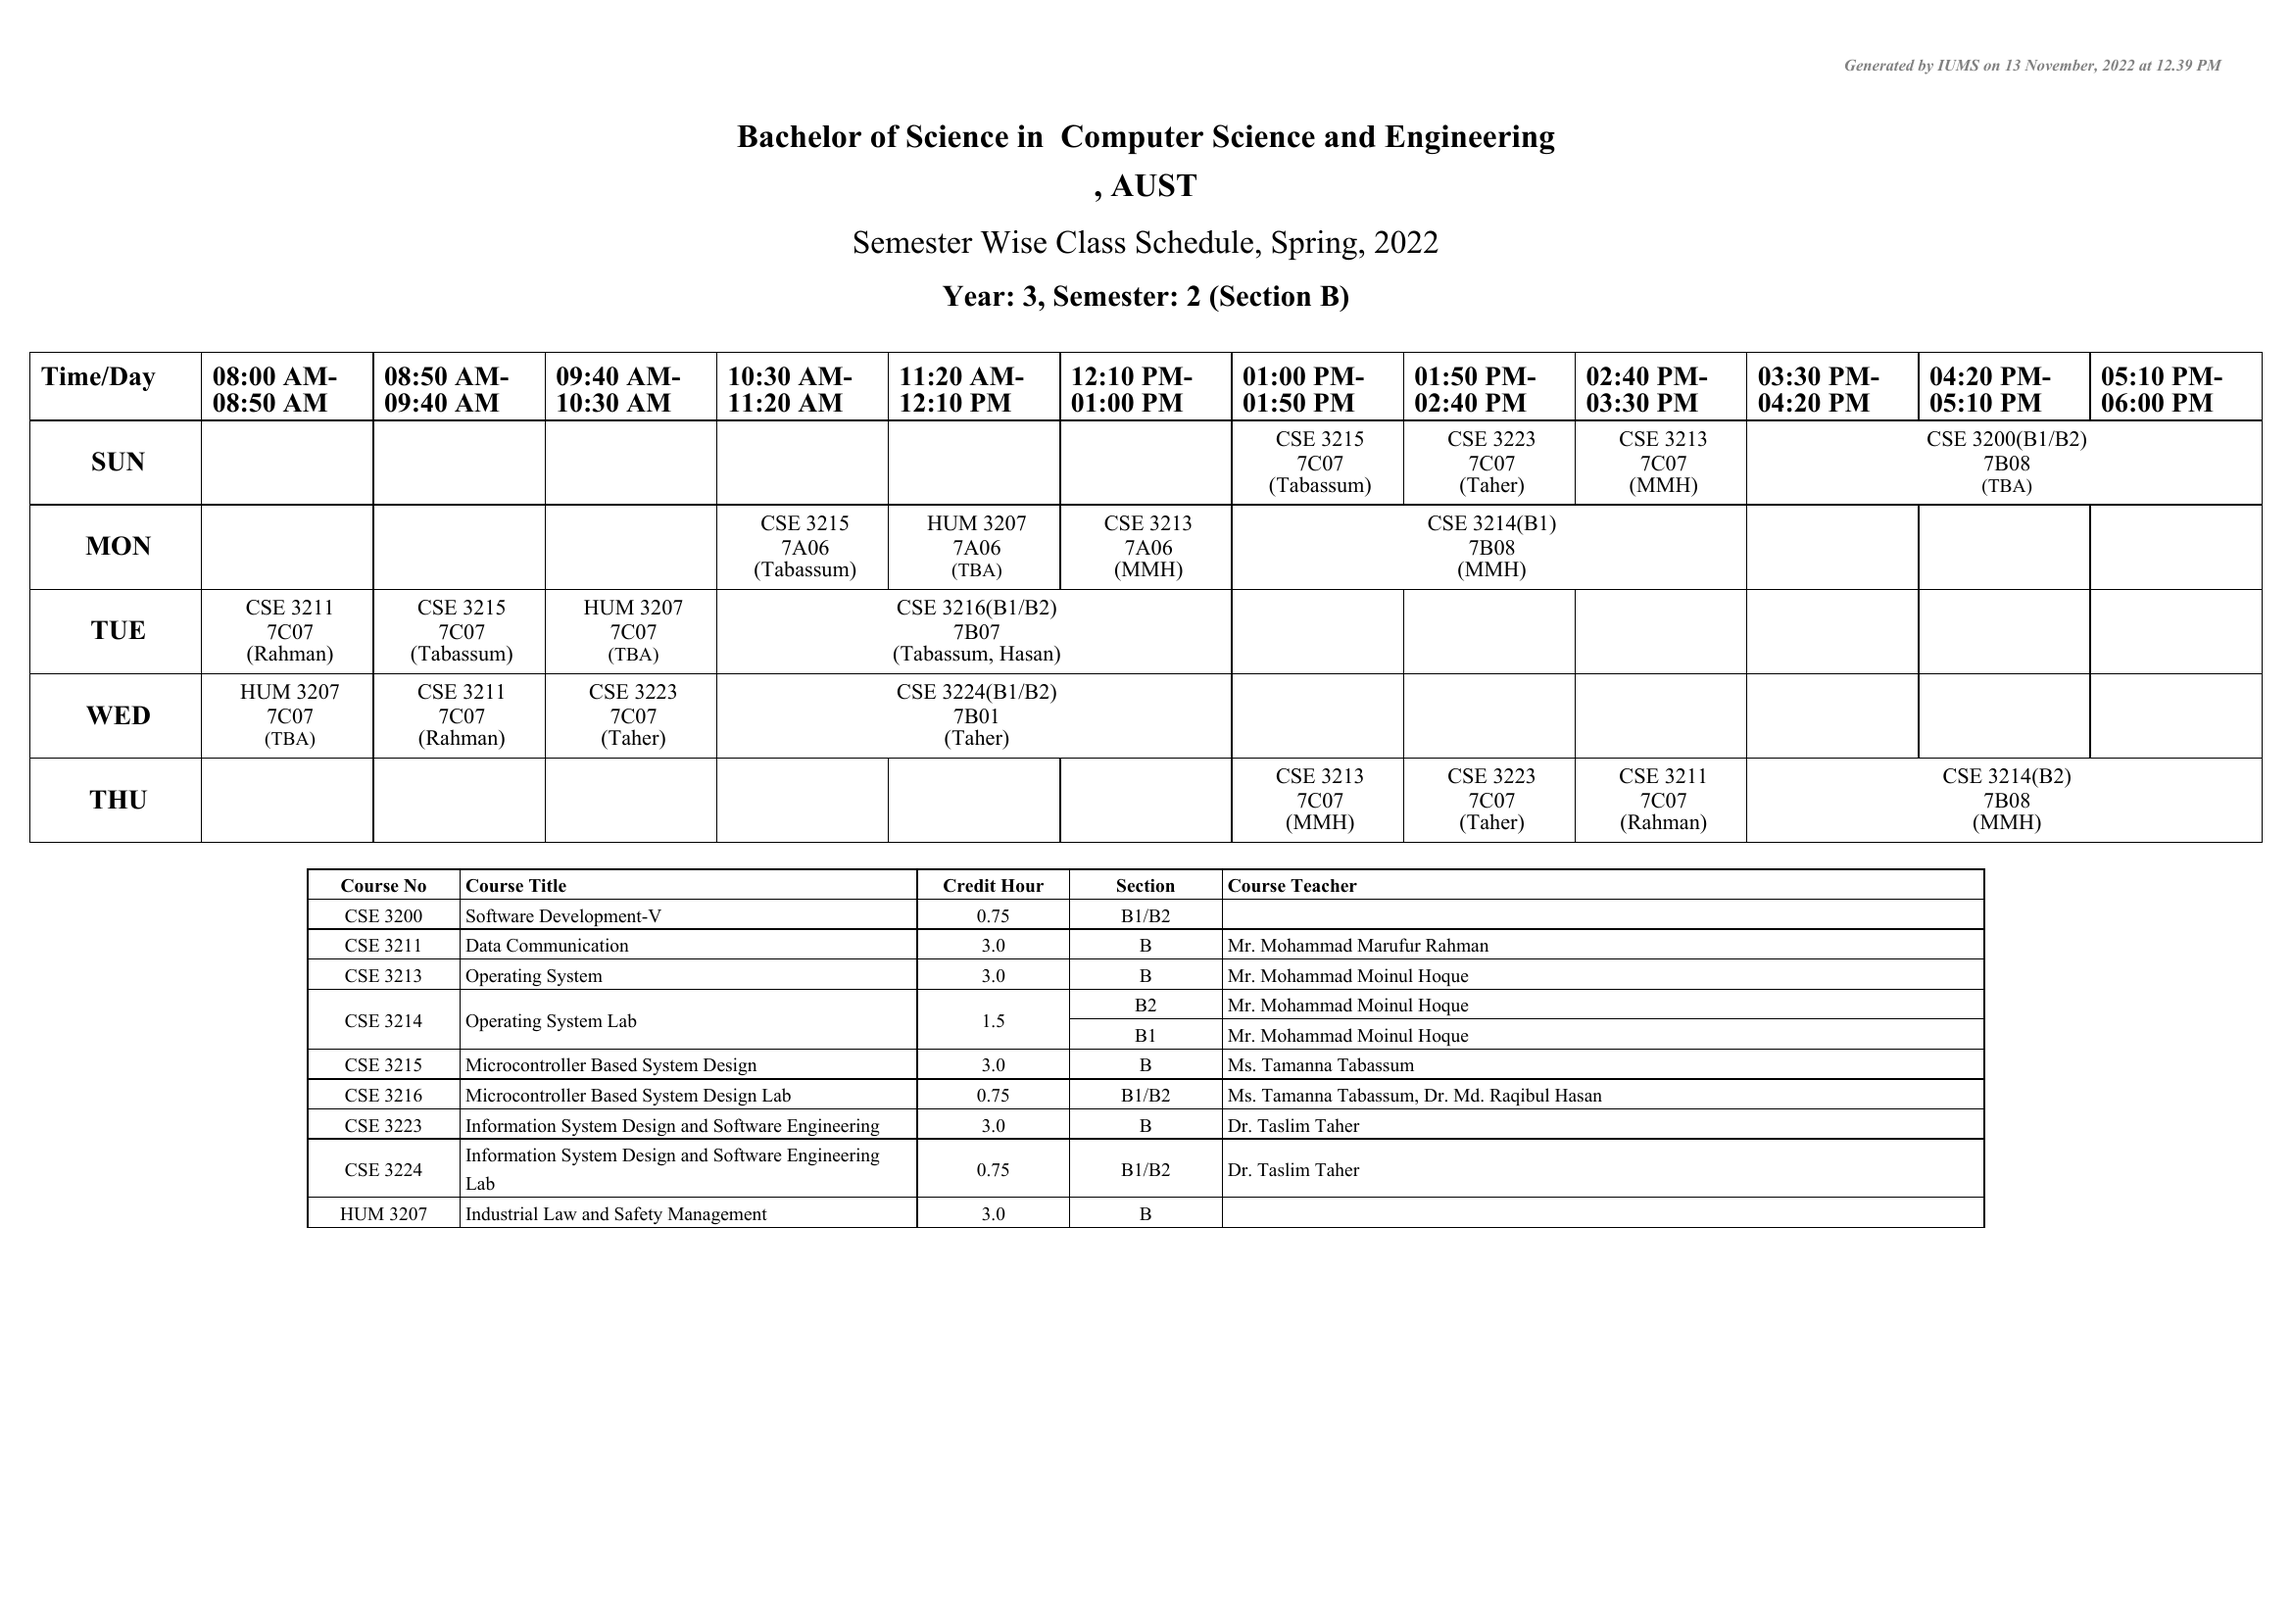
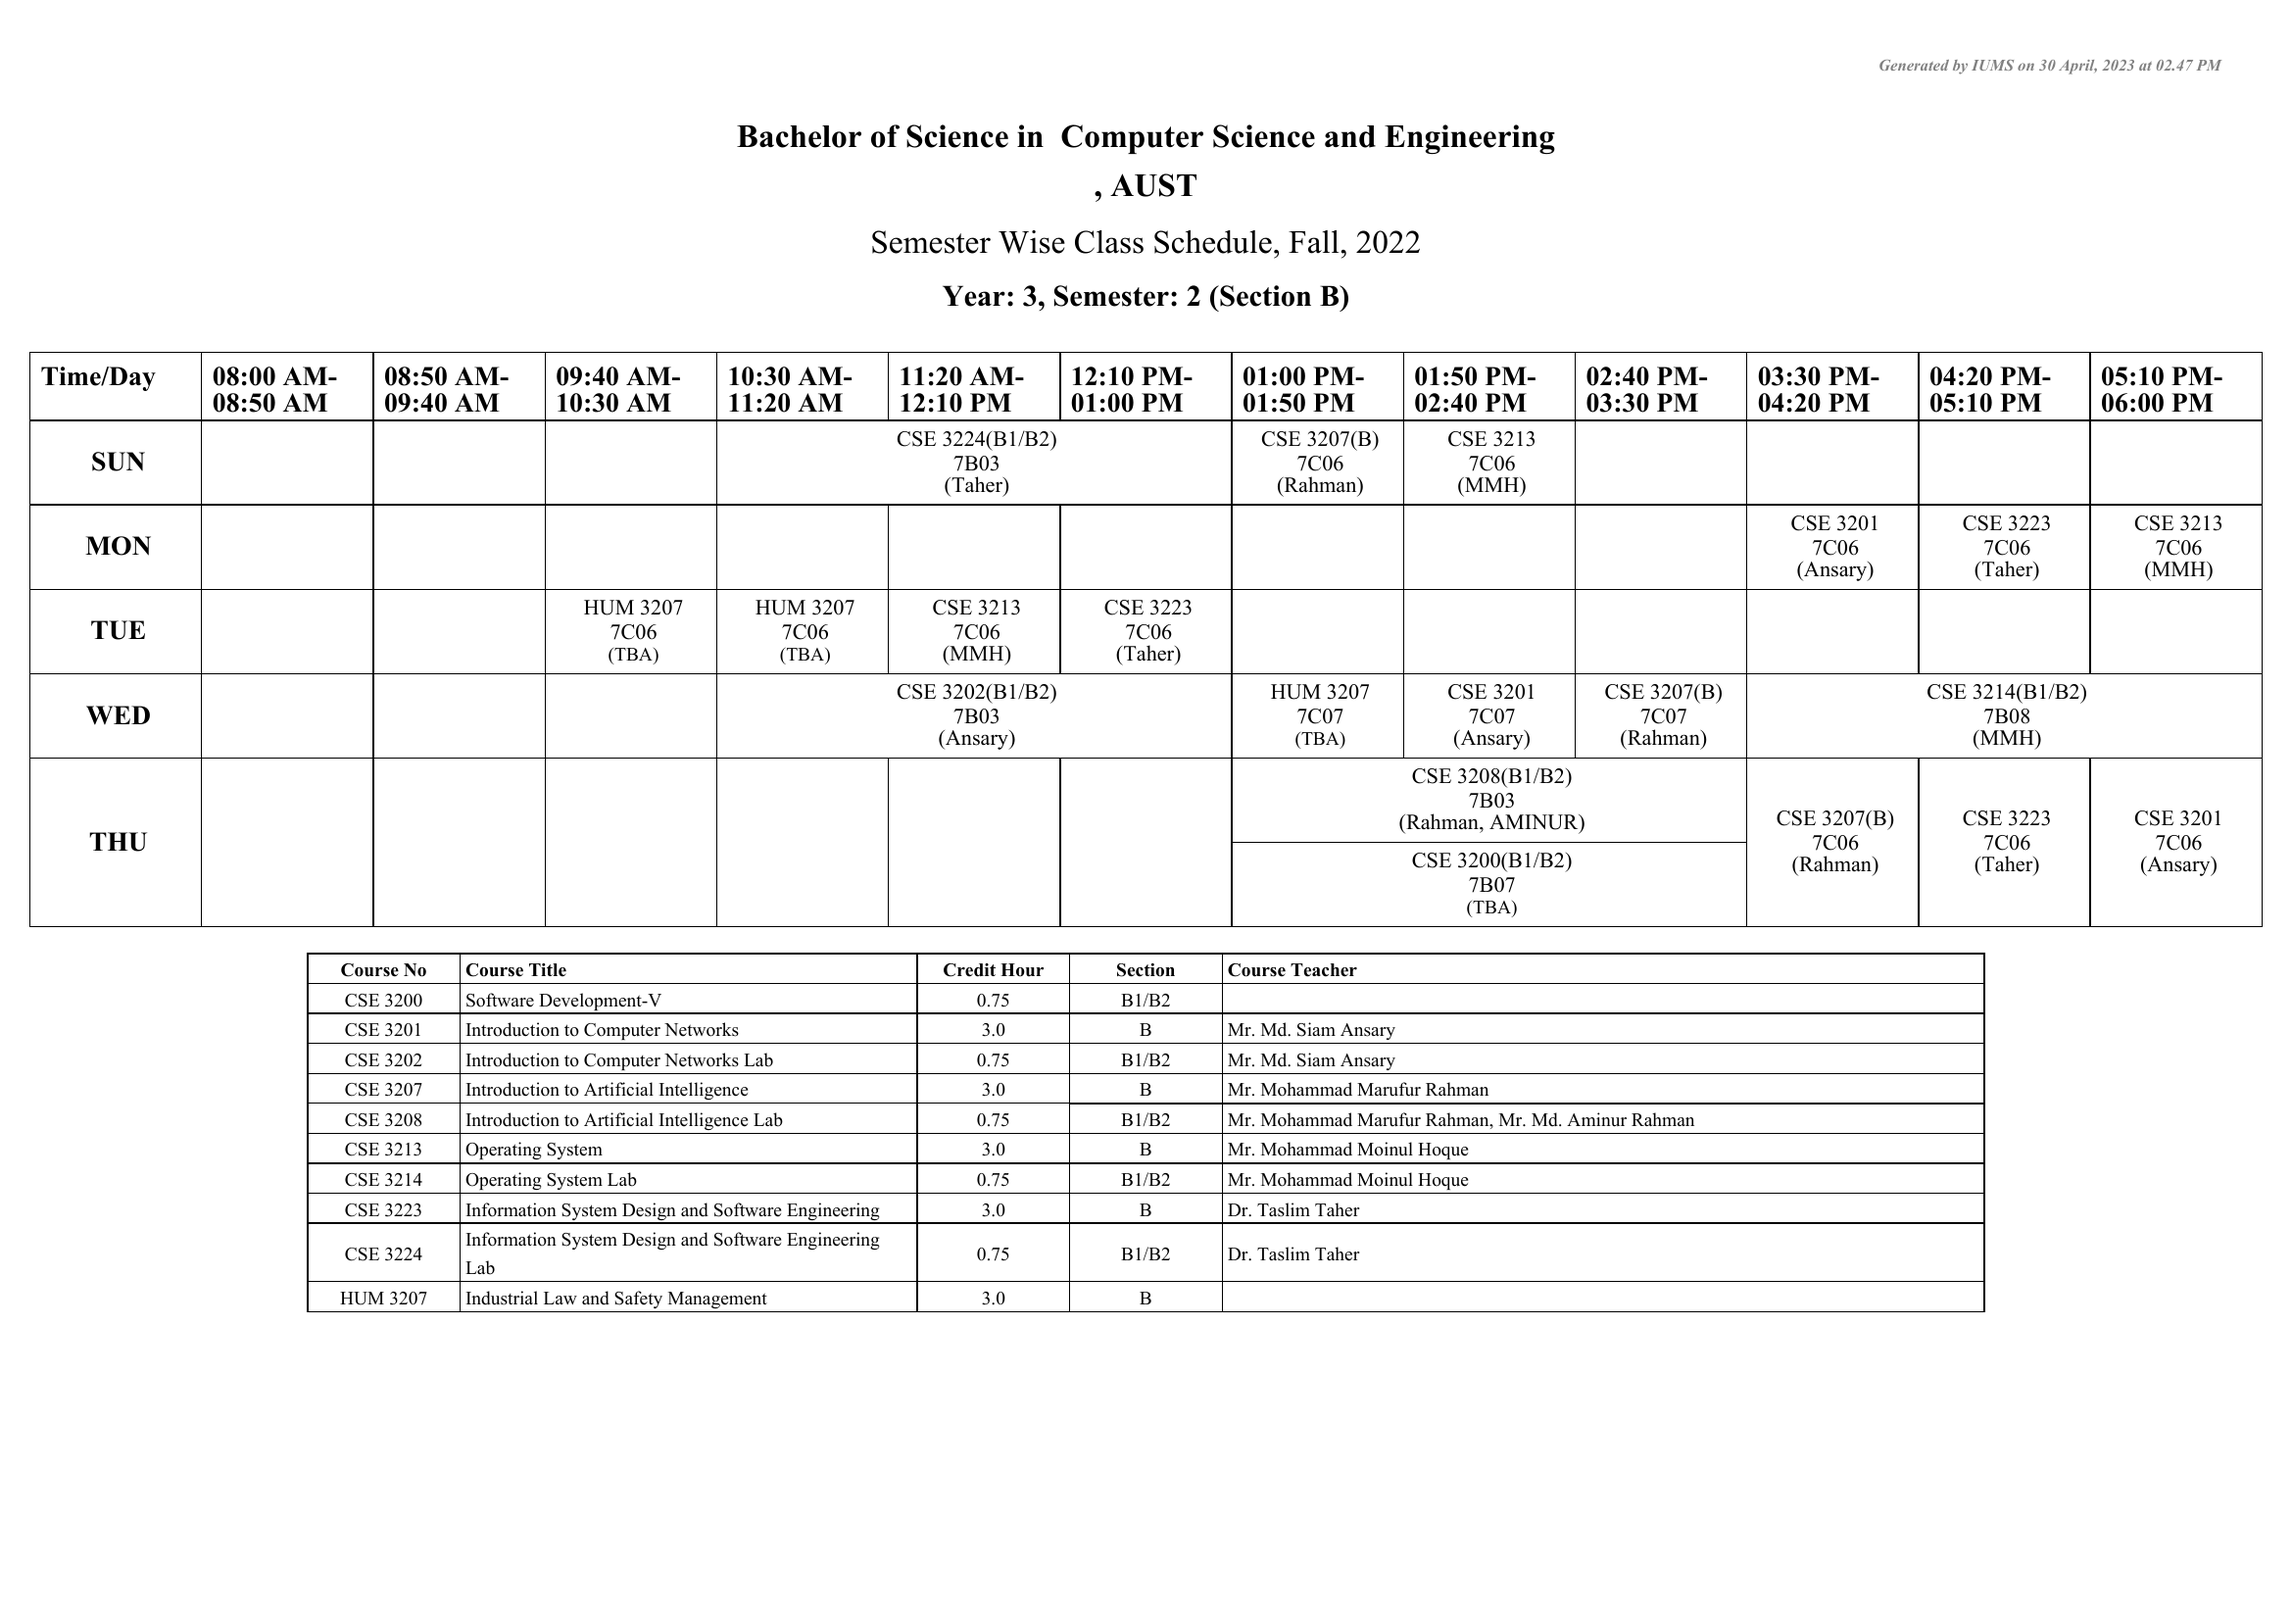
add (routines) : cse routine of fall 2022

diff --git a/AUST_ROUTINE_PROVIDER/routine_splitter.rb b/AUST_ROUTINE_PROVIDER/routine_splitter.rb
@@ -62,6 +62,21 @@ def file_saver(pages, routines, wanted_routine)
   end
 end
 
+# function to save all the routines
+
+def all_routines_saver(pages, routines)
+  i = 0
+  # iterating through the pages of the pdf
+  pages.each do |page|
+    pdf = CombinePDF.new
+    pdf << page
+
+    # saving the routine
+    pdf.save("#{routines[i]}.pdf")
+    i += 1
+  end
+end
+
 # Taking the user input to find the desired semester
 def user_input()
   puts "Year"
@@ -83,7 +98,7 @@ end
 def main()
 
   # Prepations to start finding the file
-  intput_file_name = "Input/CSE_Class_Routine_Spring2022.pdf"
+  intput_file_name = "Input/cse_class_routine.pdf"
   pages = CombinePDF.load(intput_file_name).pages
   pdf = PDF::Reader.new(intput_file_name)
 
@@ -93,10 +108,12 @@ def main()
   routines << "LAST PAGE"
 
   # desired routine
-  wanted_routine = user_input()
+  # wanted_routine = user_input()
 
-  # saving the wanted routine
-  file_saver(pages, routines, wanted_routine)
+  # saving the wanted routine if wanted by one only
+  # file_saver(pages, routines, wanted_routine)
+
+  all_routines_saver(pages, routines)
 end
 
 main()

diff --git a/AUST_ROUTINE_PROVIDER/pdf_to_png.py b/AUST_ROUTINE_PROVIDER/pdf_to_png.py
@@ -18,4 +18,7 @@ for pdf_file in pdf_files:
 
     for i in range(len(images)):
         images[i].save('OutputImages/' + image_name + '.png', 'PNG')
-        print(image_name + '.png')
+        image_name = (image_name + '.png')
+        # print(image_name)
+        print ("https://raw.githubusercontent.com/piru72/Uni_buddy/master/AUST_ROUTINE_PROVIDER/OutputImages/" + image_name)
+       
